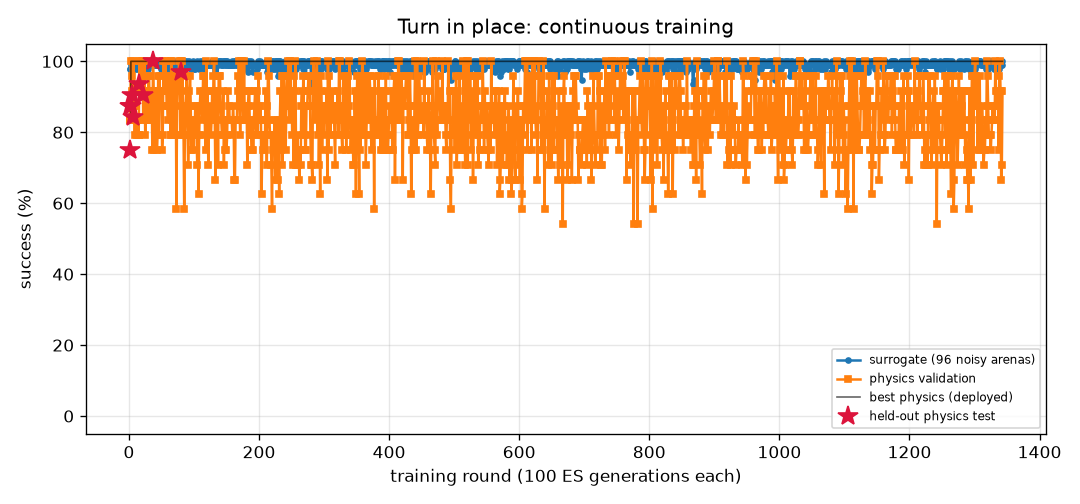
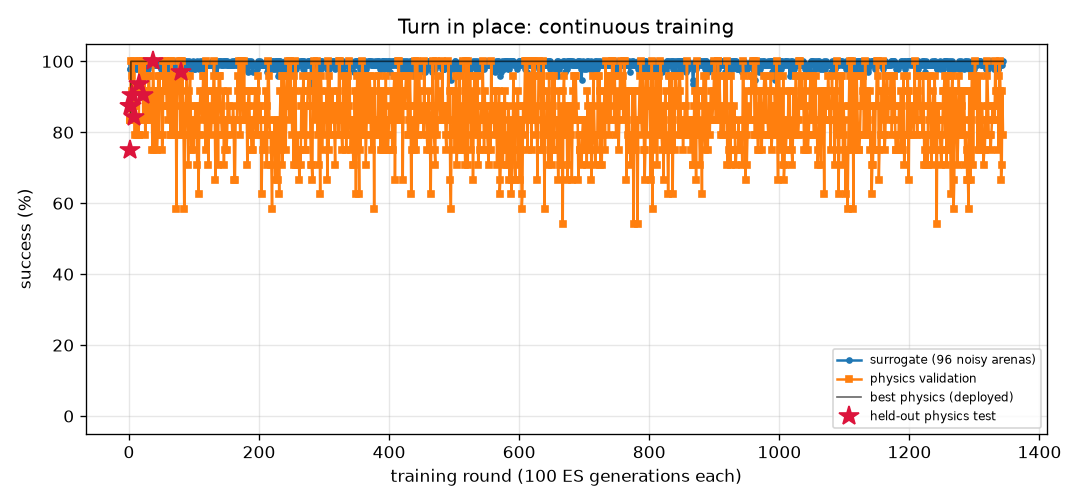
FlyLab: continuous training progress
- walk_forward: optimal, physics val 100% of 24, round 534
- turn: optimal, physics val 100% of 24, round 1344
- goto: optimal, physics val 100% of 24, round 411
- odor_seek: optimal, physics val 100% of 24, round 333
- odor_avoid: optimal, physics val 100% of 24, round 1132
- light_seek: optimal, physics val 100% of 24, round 615
- light_avoid: optimal, physics val 100% of 24, round 845

diff --git a/projects/09_flylab/training/turn/REPORT.md b/projects/09_flylab/training/turn/REPORT.md
@@ -1,14 +1,14 @@
 # Turn in place (`turn`) — training report
 
-*Auto-generated by `train_brains.py`, last updated 2026-11-24T22:59:01.*
+*Auto-generated by `train_brains.py`, last updated 2026-11-25T09:41:24.*
 
 ![curve](curve.png)
 
 | | |
 |---|---|
-| rounds | 1343 |
-| ES generations | 134300 |
-| physics runs | 32478 |
+| rounds | 1344 |
+| ES generations | 134400 |
+| physics runs | 32502 |
 | status | **optimal** |
 | best brain | round 80: physics validation **100%** on 24 arenas, surrogate 100% |
 | held-out physics test | **97%** on 32 unseen arenas (95% CI 84%-99%) (errors: [1.6, 3.3, 6.3, 3.7, 1.1, 0.4, 2.4, 2.9, 0.1, 2.6, 0.5, 2.7, 1.5, 3.1, 4.5, 0.2, 0.5, 1.1, 2.0, 4.4, 2.8, 3.2, 0.3, 2.2, 0.5, 3.0, 0.3, 5.4, 0.4, 1.0, 4.7, 10.7]) |
@@ -17,7 +17,6 @@ Physics error per arena: deg from target heading (< 20 = success).
 
 | round | level | gens | sigma | surrogate | physics val | val errors | test | note |
 |---:|---:|---:|---:|---:|---:|---|---:|---|
-| 1304 | 3 | 130400 | 0.025 | 99% | 88% | [10.8, 12.5, 8.4, 0.8, 3.1, 0.1, 2.3, 9.0, 2.1, 2.9, 3.7, 3.7, 5.1, 6.6, 3.3, 1.2, 3.2, 2.0, 2.7, 3.1, 10.6, 1.6, 0.3, 8.9] |  | restart from best |
 | 1305 | 3 | 130500 | 0.024 | 100% | 75% | [0.1, 2.5, 1.7, 0.1, 1.3, 13.5, 6.7, 8.0, 7.0, 0.4, 4.9, 1.5, 0.3, 0.5, 5.3, 5.7, 1.6, 1.1, 2.0, 3.4, 4.6, 1.2, 7.0, 6.9] |  |  |
 | 1306 | 3 | 130600 | 0.024 | 100% | 88% | [0.3, 2.1, 2.2, 0.8, 0.5, 2.6, 4.1, 8.5, 7.3, 1.8, 5.5, 0.9, 1.9, 0.8, 5.4, 2.7, 1.1, 0.9, 3.2, 3.5, 5.9, 2.0, 6.3, 6.7] |  |  |
 | 1307 | 3 | 130700 | 0.024 | 100% | 83% | [4.4, 5.7, 3.0, 2.1, 1.7, 1.3, 4.8, 6.3, 6.3, 14.5, 4.6, 0.7, 0.3, 1.0, 4.4, 1.4, 0.3, 1.2, 2.1, 0.1, 4.5, 2.4, 5.8, 6.7] |  |  |
@@ -57,3 +56,4 @@ Physics error per arena: deg from target heading (< 20 = success).
 | 1341 | 3 | 134100 | 0.024 | 99% | 67% | [1.7, 1.5, 6.7, 0.3, 0.2, 8.7, 6.5, 1.0, 7.7, 1.2, 5.9, 1.2, 1.8, 0.4, 4.5, 3.8, 0.5, 3.7, 3.8, 0.8, 114.8, 1.9, 6.5, 5.3] |  |  |
 | 1342 | 3 | 134200 | 0.025 | 100% | 71% | [0.8, 2.5, 0.4, 1.1, 0.9, 13.2, 5.8, 8.6, 9.4, 1.6, 6.0, 1.1, 2.6, 1.9, 4.9, 3.4, 2.2, 3.8, 1.7, 4.2, 3.0, 3.3, 7.0, 2.7] |  |  |
 | 1343 | 3 | 134300 | 0.024 | 99% | 92% | [4.1, 6.5, 3.7, 0.7, 12.0, 1.5, 3.8, 5.3, 3.8, 11.6, 3.4, 0.6, 2.4, 1.7, 2.9, 1.0, 0.1, 0.4, 1.6, 2.0, 3.5, 0.3, 5.9, 0.9] |  |  |
+| 1344 | 3 | 134400 | 0.025 | 100% | 79% | [7.6, 8.8, 7.8, 2.9, 1.1, 0.6, 5.0, 3.7, 4.3, 0.8, 2.0, 2.1, 2.4, 5.0, 2.3, 1.4, 1.7, 1.5, 0.5, 0.5, 9.4, 0.8, 4.9, 4.6] |  | restart from best |

diff --git a/projects/09_flylab/training/TRAINING.md b/projects/09_flylab/training/TRAINING.md
@@ -1,13 +1,13 @@
 # FlyLab brains — continuous training log
 
-*Auto-generated by `train_brains.py`, last updated 2026-11-24T22:59:01.*
+*Auto-generated by `train_brains.py`, last updated 2026-11-25T09:41:24.*
 
 Every skill has its own brain and its own training process: surrogate ES rounds, physics validation in MuJoCo, keep-the-best selection, and a held-out physics test that is never used for selection. See each skill's report for its full round-by-round history. Mastery is progressive: passing a level (100% physics validation, >=95% surrogate) doubles the validation and test arena sets; a brain is **optimal** once it holds up at level 3 (>=95% of 24 validation arenas) AND scores >=90% on the 32 held-out test arenas. Test columns show 95% Wilson confidence intervals.
 
 | skill | rounds | ES generations | physics runs | surrogate | physics val | **physics test** | status |
 |---|---:|---:|---:|---:|---:|---:|---|
 | [Walk forward](walk_forward/REPORT.md) | 534 | 53400 | 12894 | 100% | 100% of 24 | 100% of 32 (CI 89-100%) | **optimal** |
-| [Turn in place](turn/REPORT.md) | 1343 | 134300 | 32478 | 100% | 100% of 24 | 97% of 32 (CI 84-99%) | **optimal** |
+| [Turn in place](turn/REPORT.md) | 1344 | 134400 | 32502 | 100% | 100% of 24 | 97% of 32 (CI 84-99%) | **optimal** |
 | [Go to a location](goto/REPORT.md) | 411 | 41100 | 9814 | 100% | 100% of 24 | 100% of 32 (CI 89-100%) | **optimal** |
 | [Find food by smell](odor_seek/REPORT.md) | 333 | 33300 | 7486 | 100% | 100% of 24 | 100% of 32 (CI 89-100%) | **optimal** |
 | [Escape a bad smell](odor_avoid/REPORT.md) | 1132 | 113200 | 24474 | 97% | 100% of 24 | 97% of 32 (CI 84-99%) | **optimal** |
